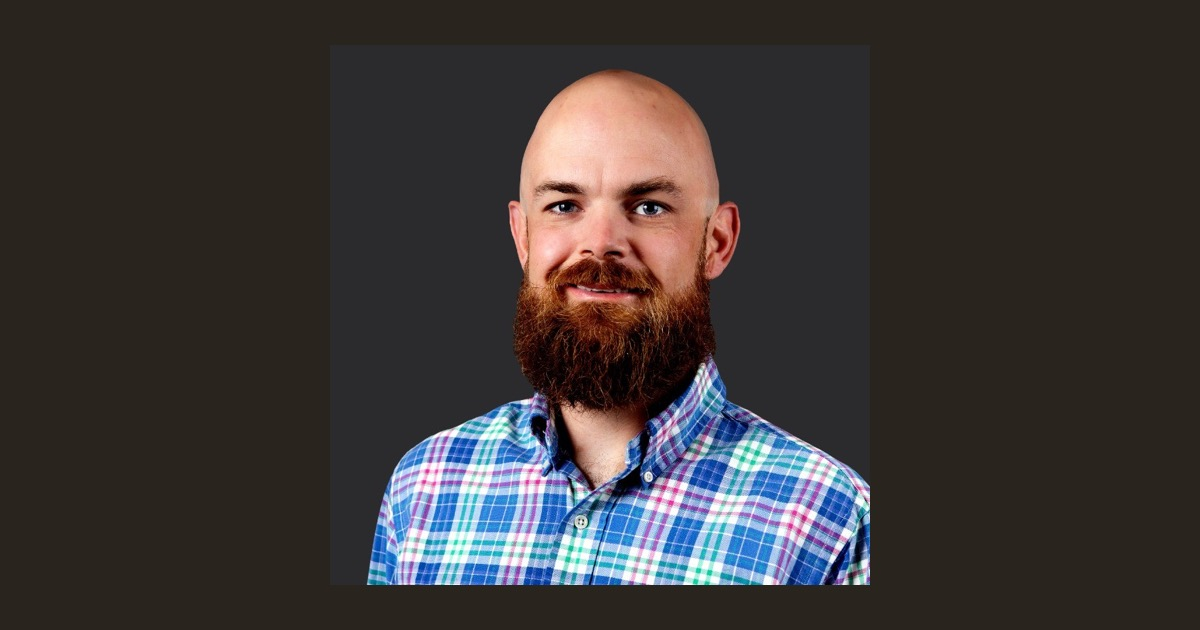
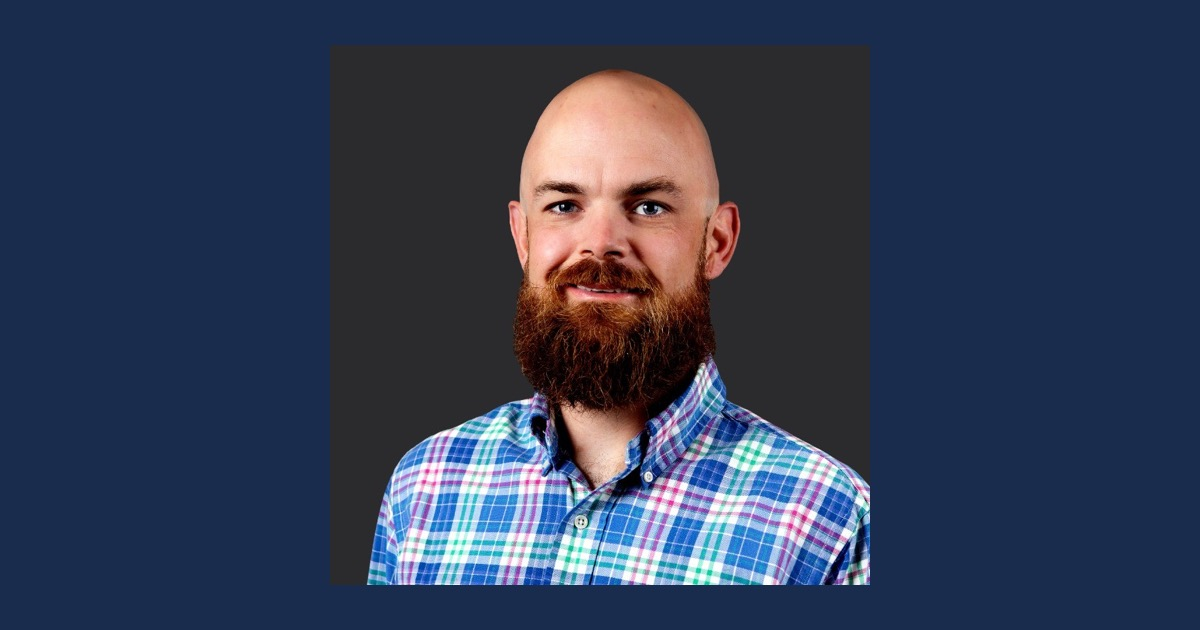
Apply Mullen brand: navy+olive+cream palette, real issues, water/wave mark, Working Today tagline

diff --git a/index.html b/index.html
@@ -46,20 +46,27 @@
 
 <style>
 :root {
-  --paper: oklch(0.94 0.022 80);
-  --paper-deep: oklch(0.90 0.024 78);
-  --paper-soft: oklch(0.96 0.018 82);
-  --ink: oklch(0.20 0.014 65);
-  --ink-deep: oklch(0.13 0.012 60);
-  --ink-soft: oklch(0.30 0.014 65);
-  --bronze: oklch(0.55 0.13 50);
-  --bronze-deep: oklch(0.46 0.13 45);
-  --bronze-soft: oklch(0.78 0.07 60);
-  --sage: oklch(0.42 0.04 145);
-  --stone: oklch(0.62 0.012 70);
-  --stone-deep: oklch(0.48 0.014 65);
-  --rule: oklch(0.78 0.018 75);
-  --rule-strong: oklch(0.65 0.018 70);
+  --paper: oklch(0.95 0.022 88);
+  --paper-deep: oklch(0.91 0.024 85);
+  --paper-soft: oklch(0.97 0.018 90);
+  --navy: oklch(0.27 0.06 250);
+  --navy-deep: oklch(0.20 0.05 248);
+  --navy-soft: oklch(0.42 0.05 248);
+  --olive: oklch(0.55 0.06 115);
+  --olive-deep: oklch(0.45 0.06 110);
+  --olive-soft: oklch(0.80 0.05 110);
+  --water: oklch(0.66 0.11 235);
+  --water-deep: oklch(0.55 0.11 238);
+  --stone: oklch(0.62 0.012 80);
+  --stone-deep: oklch(0.48 0.014 80);
+  --rule: oklch(0.82 0.018 88);
+  --rule-strong: oklch(0.68 0.018 85);
+  --ink: var(--navy);
+  --ink-deep: var(--navy-deep);
+  --ink-soft: var(--navy-soft);
+  --bronze: var(--olive);
+  --bronze-deep: var(--olive-deep);
+  --bronze-soft: var(--olive-soft);
   --gutter: clamp(1.25rem, 4vw, 3rem);
   --max: 1340px;
 }
@@ -157,19 +164,15 @@ button { font-family: inherit; cursor: pointer; border: none; background: none; 
   flex-shrink: 0;
 }
 .nav-logo-mark {
-  width: 22px;
-  height: 22px;
+  width: 32px;
+  height: 18px;
   display: inline-flex;
   align-items: center;
   justify-content: center;
-  background: var(--ink);
-  color: var(--bronze);
-  font-family: 'Bricolage Grotesque', sans-serif;
-  font-weight: 800;
-  font-size: 0.78rem;
-  font-variation-settings: "wdth" 100;
-  border-radius: 1px;
+  color: var(--navy);
+  flex-shrink: 0;
 }
+.nav-logo-mark svg { width: 100%; height: 100%; display: block; }
 .nav-logo-text {
   font-family: 'JetBrains Mono', monospace;
   font-size: 0.78rem;
@@ -295,25 +298,23 @@ main { padding-top: 100px; }
   height: 1px;
   background: var(--bronze);
 }
-.poster-seal {
-  width: 56px;
-  height: 56px;
-  border: 1.5px solid var(--ink);
-  border-radius: 50%;
+.poster-watermark {
+  width: 96px;
+  flex-shrink: 0;
+  color: var(--navy);
   display: flex;
   align-items: center;
-  justify-content: center;
-  flex-shrink: 0;
-  position: relative;
+  justify-content: flex-end;
 }
-.poster-seal::before {
-  content: "";
+.poster-watermark svg { width: 100%; height: auto; display: block; }
+.poster-landscape {
   position: absolute;
-  inset: 5px;
-  border: 1px solid var(--bronze);
-  border-radius: 50%;
+  bottom: 0; left: 0; right: 0;
+  pointer-events: none;
+  z-index: 0;
+  height: clamp(48px, 8vh, 96px);
 }
-.poster-seal svg { width: 22px; height: 22px; color: var(--bronze); position: relative; z-index: 1; }
+.poster-landscape svg { width: 100%; height: 100%; display: block; }
 
 .wordmark {
   display: flex;
@@ -324,28 +325,27 @@ main { padding-top: 100px; }
 }
 .wordmark-given {
   font-family: 'Bricolage Grotesque', sans-serif;
-  font-variation-settings: "wdth" 100, "opsz" 96;
-  font-weight: 500;
-  font-size: clamp(2rem, 4.5vw, 3.6rem);
-  letter-spacing: -0.025em;
-  line-height: 1;
-  color: var(--ink-soft);
-  margin-bottom: clamp(0.4rem, 1vw, 0.8rem);
+  font-variation-settings: "wdth" 95, "opsz" 96;
+  font-weight: 800;
+  font-size: clamp(2.4rem, 6.5vw, 5.5rem);
+  letter-spacing: -0.035em;
+  line-height: 0.92;
+  color: var(--navy);
+  margin-bottom: clamp(0.3rem, 0.6vw, 0.5rem);
   text-transform: uppercase;
-  margin-left: 0.4em;
 }
 .wordmark-family {
   font-family: 'Bricolage Grotesque', sans-serif;
-  font-variation-settings: "wdth" 80, "opsz" 96;
+  font-variation-settings: "wdth" 85, "opsz" 96;
   font-weight: 800;
   font-size: clamp(5.5rem, 22vw, 21rem);
-  letter-spacing: -0.06em;
+  letter-spacing: -0.055em;
   line-height: 0.82;
-  color: var(--ink);
+  color: var(--olive);
   text-transform: uppercase;
   position: relative;
 }
-.wordmark-family .accent-letter { color: var(--bronze); }
+.wordmark-family .accent-letter { color: var(--olive); }
 .wordmark-suffix {
   font-family: 'Bricolage Grotesque', sans-serif;
   font-variation-settings: "wdth" 100, "opsz" 24;
@@ -927,7 +927,7 @@ footer {
   border-bottom: 1px solid oklch(0.94 0.022 80 / 0.12);
 }
 .footer-brand .nav-logo-text { color: var(--paper); font-size: 0.86rem; }
-.footer-brand .nav-logo-mark { background: var(--bronze); color: var(--ink-deep); }
+.footer-brand .nav-logo-mark { color: var(--olive-soft); }
 .footer-brand p {
   margin-top: 1.25rem;
   max-width: 36ch;
@@ -1050,7 +1050,12 @@ footer {
 <!-- Secondary nav -->
 <header id="nav">
   <a href="#top" class="nav-logo" aria-label="Mullen for Yakima County">
-    <span class="nav-logo-mark">M</span>
+    <span class="nav-logo-mark" aria-hidden="true">
+      <svg viewBox="0 0 30 18" fill="none">
+        <path d="M2 8 Q 8 4, 14 8 T 28 8" stroke="currentColor" stroke-width="2" stroke-linecap="round" fill="none"/>
+        <path d="M2 14 Q 8 10, 14 14 T 28 14" stroke="var(--water)" stroke-width="2" stroke-linecap="round" fill="none"/>
+      </svg>
+    </span>
     <span class="nav-logo-text">Mullen for Yakima</span>
   </a>
   <nav class="nav-links" aria-label="Primary">
@@ -1077,22 +1082,32 @@ footer {
 <!-- HERO: TYPE-ONLY POSTER -->
 <section class="poster" aria-labelledby="hero-name">
   <div class="poster-meta">
-    <span class="poster-filenum">FILE · YK-D1 / 2026 · CANDIDATE BRIEF · REV. 01</span>
-    <span class="poster-seal" aria-hidden="true">
-      <svg viewBox="0 0 24 24" fill="none" stroke="currentColor" stroke-width="1.6">
-        <path d="M12 3 L15 9 L21 10 L16.5 14.5 L17.5 21 L12 18 L6.5 21 L7.5 14.5 L3 10 L9 9 Z"/>
+    <span class="poster-filenum">YAKIMA COUNTY · DISTRICT 1 · GENERAL ELECTION 2026</span>
+    <span class="poster-watermark" aria-hidden="true">
+      <svg viewBox="0 0 120 60" fill="none">
+        <path d="M70 14 Q 90 4, 110 14" stroke="currentColor" stroke-width="2" fill="none" opacity="0.85"/>
+        <path d="M88 8 C 84 16, 84 24, 88 26 C 92 24, 92 16, 88 8 Z" fill="var(--water)"/>
+        <path d="M5 36 Q 27 28, 50 36 T 95 36 T 115 34" stroke="currentColor" stroke-width="3.5" stroke-linecap="round" fill="none"/>
+        <path d="M5 50 Q 27 42, 50 50 T 95 50 T 115 48" stroke="var(--water)" stroke-width="3.5" stroke-linecap="round" fill="none"/>
       </svg>
     </span>
   </div>
 
+  <div class="poster-landscape" aria-hidden="true">
+    <svg viewBox="0 0 1200 64" preserveAspectRatio="xMidYMax slice">
+      <path d="M0 50 L 110 22 L 180 38 L 280 12 L 380 30 L 470 18 L 560 36 L 660 24 L 760 32 L 860 14 L 960 28 L 1060 18 L 1200 32 L 1200 64 L 0 64 Z" fill="var(--olive)" opacity="0.18"/>
+      <path d="M0 56 L 90 36 L 170 48 L 260 28 L 360 42 L 460 32 L 550 46 L 640 36 L 740 44 L 840 30 L 940 40 L 1040 32 L 1200 42 L 1200 64 L 0 64 Z" fill="var(--olive)" opacity="0.32"/>
+    </svg>
+  </div>
+
   <div class="wordmark">
     <span class="wordmark-given">Dave</span>
-    <h1 id="hero-name" class="wordmark-family">M<span class="accent-letter">U</span>LLEN</h1>
-    <span class="wordmark-suffix">For Yakima County <span class="dot">·</span> Commissioner <span class="dot">·</span> District 1</span>
+    <h1 id="hero-name" class="wordmark-family">Mullen</h1>
+    <span class="wordmark-suffix">For Yakima County <span class="dot">★</span> Commissioner <span class="dot">★</span> District 1</span>
   </div>
 
   <div class="poster-foot">
-    <p class="poster-tagline">A lifetime of service. <span class="em">A record of results.</span> Built for District 1, by someone who has lived and worked here.</p>
+    <p class="poster-tagline">Working today. <span class="em">Building tomorrow.</span> A proven leader for the Yakima Valley we all call home.</p>
     <div class="poster-cta">
       <a href="#" class="btn btn-primary">Donate to the Campaign</a>
       <a href="#join" class="btn btn-ghost">Join the Team</a>
@@ -1127,8 +1142,8 @@ footer {
         <p>He continues to invest in the Yakima Valley as a youth sports coach, a longtime church board member, and a husband and father raising his family in the same valley where he grew up. He is asking voters to send him to the courthouse to do for District 1 what he has done in every role he has held: lead with integrity, focus on results, and put people first.</p>
 
         <div class="brief-marginalia">
-          <span class="label">Note from Dave</span>
-          Yakima County deserves leaders who put people first, deliver real results, and stay accountable to the residents they serve.
+          <span class="label">From the Candidate</span>
+          The job is simple to describe and hard to do well. Work today on what matters today. Build tomorrow with what we leave behind. Stay accountable to the people who sent you.
         </div>
       </div>
     </div>
@@ -1229,10 +1244,40 @@ footer {
       <article class="tenet fade-up">
         <div class="tenet-id">
           <div class="tenet-num">01</div>
-          <div class="tenet-roman">Tenet I</div>
+          <div class="tenet-roman">Issue I</div>
         </div>
         <div>
-          <h3 class="tenet-title">Fiscal Stewardship as the Default.</h3>
+          <h3 class="tenet-title">Strong Farmers. Supporting Our Agriculture.</h3>
+          <p class="tenet-body">Yakima County agriculture is the backbone of our economy and our identity. Dave will fight for the policies, infrastructure, and water access that keep our growers competitive, our farms profitable, and our valley feeding the country. When agriculture wins, the whole county wins.</p>
+        </div>
+        <div class="tenet-meta">
+          <span>Anchored in</span>
+          <span>Yakima Valley · lifetime</span>
+        </div>
+      </article>
+
+      <article class="tenet fade-up">
+        <div class="tenet-id">
+          <div class="tenet-num">02</div>
+          <div class="tenet-roman">Issue II</div>
+        </div>
+        <div>
+          <h3 class="tenet-title">Advocate for Water Rights. Protecting Our Water. Protecting Our Future.</h3>
+          <p class="tenet-body">Water is the most valuable asset Yakima County has, and we cannot afford a commissioner who treats it as a side issue. Dave will defend our rights, oppose efforts to divert our supply, and advocate for the long-term storage and management our region needs to keep growing.</p>
+        </div>
+        <div class="tenet-meta">
+          <span>Track record</span>
+          <span>$5M WWTP oversight · Naches</span>
+        </div>
+      </article>
+
+      <article class="tenet fade-up">
+        <div class="tenet-id">
+          <div class="tenet-num">03</div>
+          <div class="tenet-roman">Issue III</div>
+        </div>
+        <div>
+          <h3 class="tenet-title">Fiscal Responsibility. Managing Tax Dollars With Integrity.</h3>
           <p class="tenet-body">Every taxpayer dollar gets the same scrutiny Dave gave $3.1 million in healthcare contract savings: ask whether it has to be spent, whether it can be spent better, and whether the result is worth the cost. The county budget belongs to the residents who fund it.</p>
         </div>
         <div class="tenet-meta">
@@ -1243,42 +1288,27 @@ footer {
 
       <article class="tenet fade-up">
         <div class="tenet-id">
-          <div class="tenet-num">02</div>
-          <div class="tenet-roman">Tenet II</div>
-        </div>
-        <div>
-          <h3 class="tenet-title">Government That Actually Works.</h3>
-          <p class="tenet-body">The job of a county commissioner is not to make speeches. It is to make services run. Dave has run them in Selah, governed in Moxee, and stabilized them in Naches. He understands what working local government looks like, and he knows where it gets stuck.</p>
-        </div>
-        <div class="tenet-meta">
-          <span>Track record</span>
-          <span>3 cities served</span>
-        </div>
-      </article>
-
-      <article class="tenet fade-up">
-        <div class="tenet-id">
-          <div class="tenet-num">03</div>
-          <div class="tenet-roman">Tenet III</div>
-        </div>
-        <div>
-          <h3 class="tenet-title">Public Safety and the Basics, First.</h3>
-          <p class="tenet-body">Roads, water, public safety, infrastructure. The unglamorous foundations a community is built on. Dave brings six years of military security leadership and direct oversight of a $5M wastewater treatment project. He treats the basics like the priorities they are.</p>
-        </div>
-        <div class="tenet-meta">
-          <span>Track record</span>
-          <span>$5M WWTP · 6 yrs USAF</span>
-        </div>
-      </article>
-
-      <article class="tenet fade-up">
-        <div class="tenet-id">
           <div class="tenet-num">04</div>
-          <div class="tenet-roman">Tenet IV</div>
+          <div class="tenet-roman">Issue IV</div>
         </div>
         <div>
-          <h3 class="tenet-title">Accountable to Real People.</h3>
-          <p class="tenet-body">The residents of District 1 are not abstractions. They are the families Dave coaches youth sports for, the neighbors at his church, and the people he has lived alongside in the Yakima Valley his entire adult life. They deserve a commissioner who answers the phone and shows up.</p>
+          <h3 class="tenet-title">Stronger Communities. Safe, Vibrant Communities Across Yakima County.</h3>
+          <p class="tenet-body">Strong communities need reliable infrastructure, uncompromising public safety, and government that actually shows up. Dave brings six years of military security leadership and direct experience running parks, councils, and town operations across the Yakima Valley. He treats the foundations like the priorities they are.</p>
+        </div>
+        <div class="tenet-meta">
+          <span>Track record</span>
+          <span>6 yrs USAF · 3 cities served</span>
+        </div>
+      </article>
+
+      <article class="tenet fade-up">
+        <div class="tenet-id">
+          <div class="tenet-num">05</div>
+          <div class="tenet-roman">Issue V</div>
+        </div>
+        <div>
+          <h3 class="tenet-title">Local Values, Local Voice. Listening. Leading. Delivering.</h3>
+          <p class="tenet-body">The residents of District 1 are not abstractions. They are the families Dave coaches youth sports for, the neighbors at his church, and the people he has lived alongside in the Yakima Valley his entire adult life. They deserve a commissioner who answers the phone, shows up, and delivers.</p>
         </div>
         <div class="tenet-meta">
           <span>Track record</span>
@@ -1294,8 +1324,8 @@ footer {
   <div class="statement-shell">
     <span class="statement-mark" aria-hidden="true">"</span>
     <div>
-      <p class="statement-text">My job is to keep services running, treat tax dollars with respect, and stay accountable to the people I serve. That is the entire job.</p>
-      <span class="statement-byline">— Dave Mullen</span>
+      <p class="statement-text">Working today. Building tomorrow. That is the standard for every dollar spent, every meeting taken, and every decision made on behalf of District 1.</p>
+      <span class="statement-byline">Dave Mullen · Candidate, Yakima County Commissioner</span>
     </div>
   </div>
 </section>
@@ -1323,8 +1353,8 @@ footer {
 
         <a href="#" class="donate-card" style="text-decoration: none;">
           <div>
-            <div class="label">Take Action</div>
-            <div class="heading">Stand With Mullen. Donate.</div>
+            <div class="label">Working today. Building tomorrow.</div>
+            <div class="heading">Stand with Dave. Donate.</div>
           </div>
           <span class="btn btn-bronze" style="pointer-events: none;">Donate &rarr;</span>
         </a>
@@ -1375,10 +1405,15 @@ footer {
   <div class="footer-inner">
     <div class="footer-brand">
       <a href="#top" class="nav-logo">
-        <span class="nav-logo-mark">M</span>
+        <span class="nav-logo-mark" aria-hidden="true">
+          <svg viewBox="0 0 30 18" fill="none">
+            <path d="M2 8 Q 8 4, 14 8 T 28 8" stroke="currentColor" stroke-width="2" stroke-linecap="round" fill="none"/>
+            <path d="M2 14 Q 8 10, 14 14 T 28 14" stroke="var(--water)" stroke-width="2" stroke-linecap="round" fill="none"/>
+          </svg>
+        </span>
         <span class="nav-logo-text">Mullen for Yakima</span>
       </a>
-      <p>Lifelong public servant and proven executive leader running for Yakima County Commissioner, District 1.</p>
+      <p>Working today. Building tomorrow. A proven leader running for Yakima County Commissioner, District 1.</p>
     </div>
     <div class="footer-col">
       <h5>The Campaign</h5>